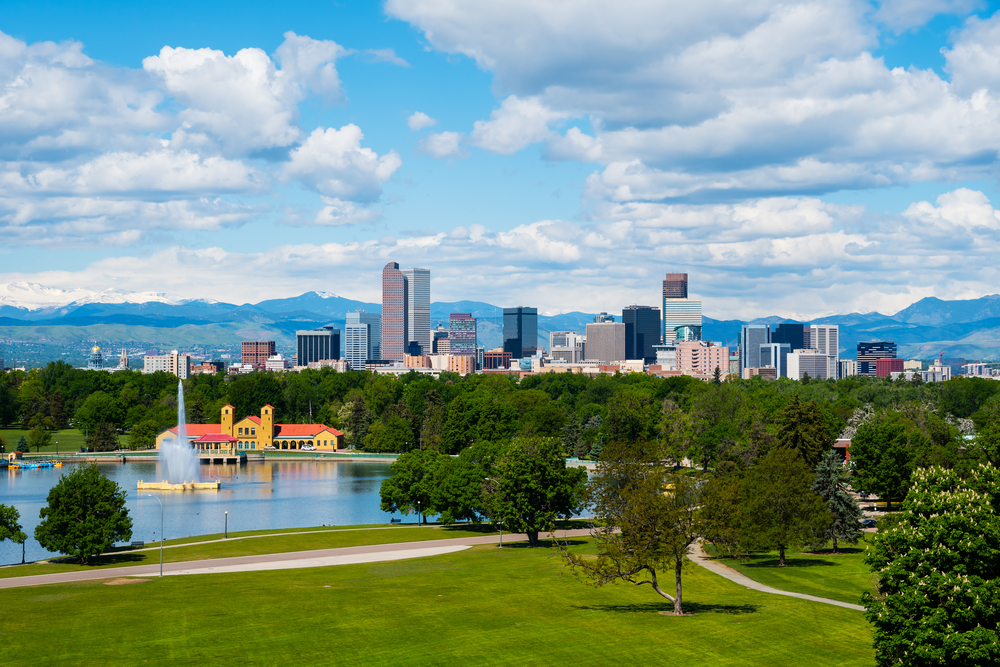
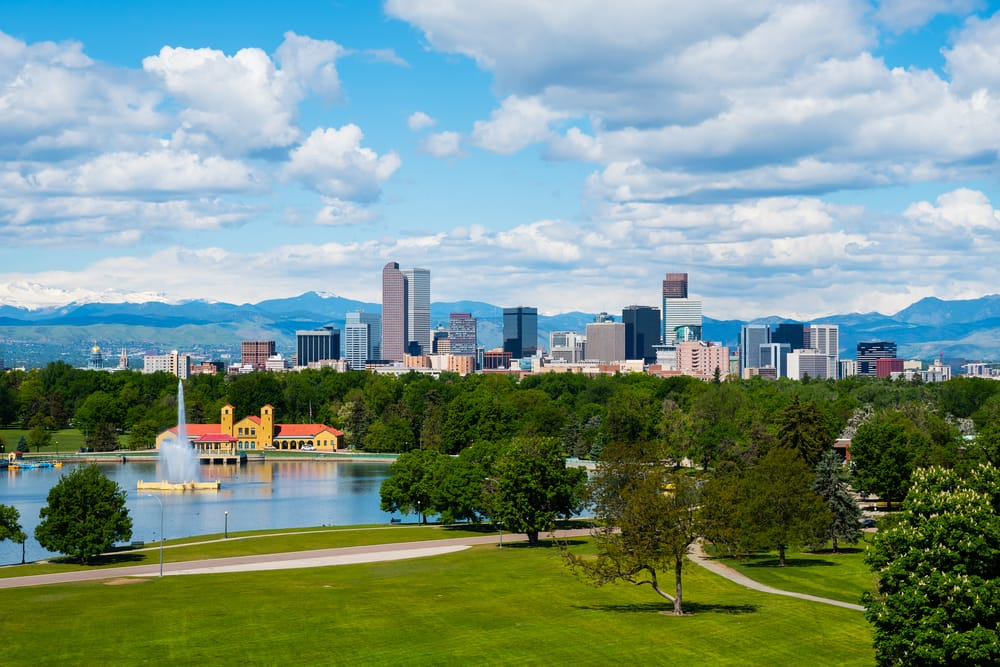
Compress images

diff --git a/README.md b/README.md
@@ -1,6 +1,6 @@
 # 🎨 Weather Palette
 **We all think about our friends - how they are doing once in a while, don't we?**
-Weather Palette is a weather information shown on a beautiful picture of my friends' hometown. Select their hometown and check out how the weather is like over there is pretty fun!😁
+Weather Palette is a weather information shown on a beautiful picture of my friends' hometown. Select their hometown and check out how the weather is like over there is pretty fun! 😁
 
 ![2018-02-04 20 07 38](https://user-images.githubusercontent.com/28984604/35776848-1bc67b72-09e7-11e8-988a-c4bc282ccd64.png)
 
@@ -19,7 +19,7 @@ yarn develop
 ```
 => You'll see weather information with a nice Tokyo theme on [http://localhost:8000](http://localhost:8000)! 🎉
 
-#### Demo is here👉 http://oafish-attention.surge.sh/
+#### Demo is here👉 http://clear-north.surge.sh/
 
 ### 💣 WARNING
 Do NOT see this app with your smartphone! It's PC site and not adjusted it for SP yet.
